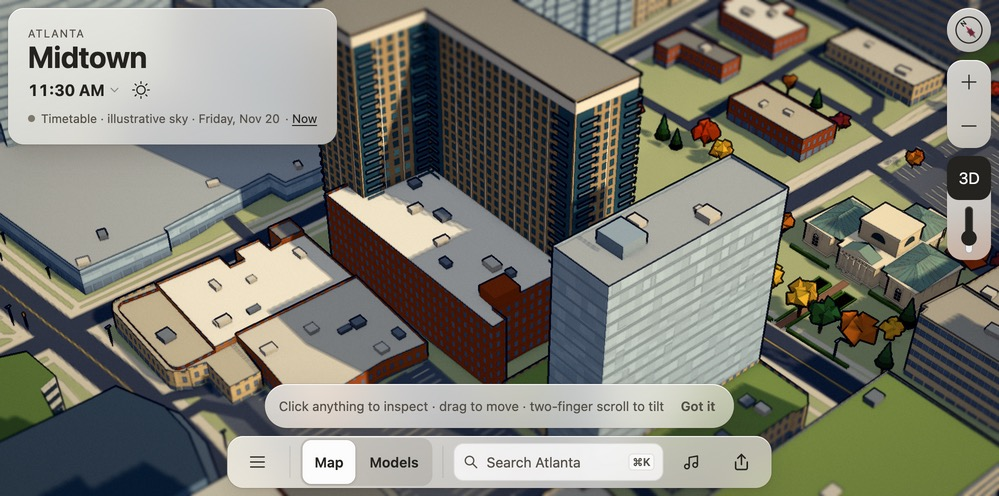
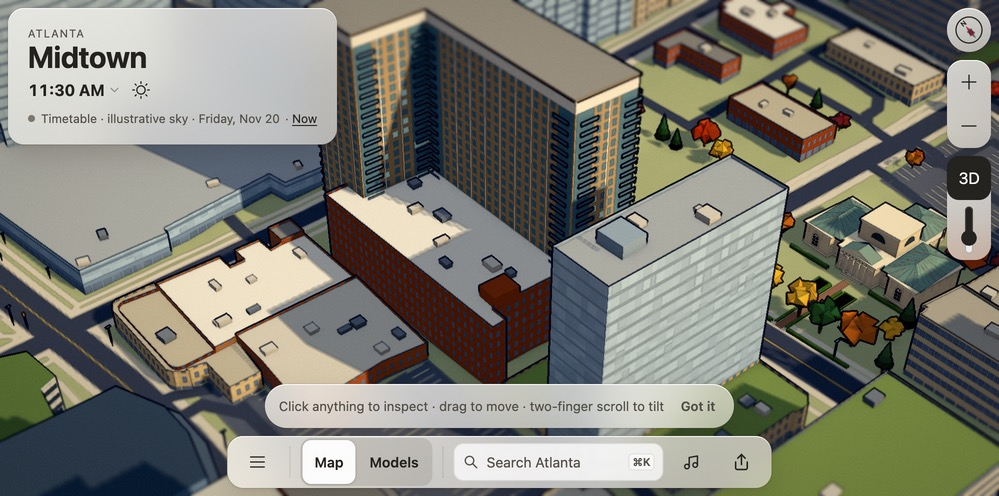
Lift Alexan's glass into the sunlit cap and record rendered samples

Changed region(s): [[0.3413, 0.0605, 0.4344, 0.3931], [0.5586, 0.1815, 0.6517, 0.4536], [0.4655, 0.2419, 0.4965, 0.2722]]

diff --git a/web/src/city/midtown-skyline-alexan.ts b/web/src/city/midtown-skyline-alexan.ts
@@ -18,8 +18,8 @@ type Shell = NonNullable<ReturnType<typeof localLandmarkShell>>;
 // architect's photographs (see docs/alexan-on-8th.md).
 
 const ROOF = 74.5, BASE = 7, FLOORS = 21;
-const PANEL = '#c6ad8e', STRIP = '#eeece6', WINDOW = '#4f7178', SLAB = '#3b3e41', RAIL = '#7d9097';
-const STORE = '#3e4d55', SLOT = '#6a8f98';
+const PANEL = '#c6ad8e', STRIP = '#eeece6', WINDOW = '#7b9aa0', SLAB = '#3b3e41', RAIL = '#7d9097';
+const STORE = '#3e4d55', SLOT = '#7e9ca4';
 export const alexanId = 'osm:way:789975430';
 
 export function alexanOn8th(shell: Shell) {

diff --git a/docs/alexan-on-8th.md b/docs/alexan-on-8th.md
@@ -13,13 +13,20 @@
 The frame uses City axes, with the origin at the footprint centre (City 361.5, −2800). City draws the mapped L at a 74.5 m roof.
 
 - **Walls:** tan panels (`#c6ad8e`) with a panel spandrel at each of 21 upper floors over a 7 m street base, and thin white vertical strips about every 6.4 m.
-- **Windows:** punched blue-green windows on a 3.2 m bay. Glass base `#4f7178`, S 34% V 47%.
+- **Windows:** punched blue-green windows on a 3.2 m bay. Glass base `#7b9aa0`, S 23% V 63%.
 - **Balconies:** stacks 6.5 m wide at each end of the long faces, with a charcoal slab edge and a glass rail on every floor.
-- **Glass slot:** a full-height curtain wall, 4.4 m wide, centred on the West Peachtree face. Glass `#6a8f98`, S 31% V 60%.
+- **Glass slot:** a full-height curtain wall, 4.4 m wide, centred on the West Peachtree face. Glass `#7e9ca4`, S 23% V 64%.
 - **Base:** two storeys of storefront and lobby glass at the street.
 - **Top:** a white band and a dark canopy edge.
 
 The bay widths, balcony positions and slot width are estimated from the photographs.
+
+## Rendered glass (11:30, high tier)
+
+Median rendered colour of window pixels, by hue:
+- **Sunlit south face:** S 25%, V 51%. This meets the cap of S ≤ 36% and V ≥ 40%.
+- **East face, in shade at 11:30:** S 43%, V 37%. This reading is advisory.
+- **Generic glass tower east of Alexan, in the same frame:** one face reads S 28%, V 46%; the other S 15%, V 55%.
 
 ## Night
 
@@ -32,3 +39,4 @@ City lights 35% of apartments and 40% of storefronts, chosen per window by skin-
 | From the east-north-east, before and after, 11:30 | `cam=372,-2800,250,58,450` | [compare-day.jpg](log/ui/alexan-on-8th/compare-day.jpg) |
 | Same, 23:30 | same | [compare-night.jpg](log/ui/alexan-on-8th/compare-night.jpg) |
 | South-west three-quarter view | `cam=372,-2800,40,52,380` | [southwest-day.jpg](log/ui/alexan-on-8th/southwest-day.jpg) |
+| Glass samples: east face (shaded at 11:30) and south face (sunlit) | `cam=383,-2800,250,40,150` and `cam=362,-2830,0,40,160`, both `&dev&mindist=20` | [east-close.jpg](log/ui/alexan-on-8th/east-close.jpg) · [south-close.jpg](log/ui/alexan-on-8th/south-close.jpg) |
